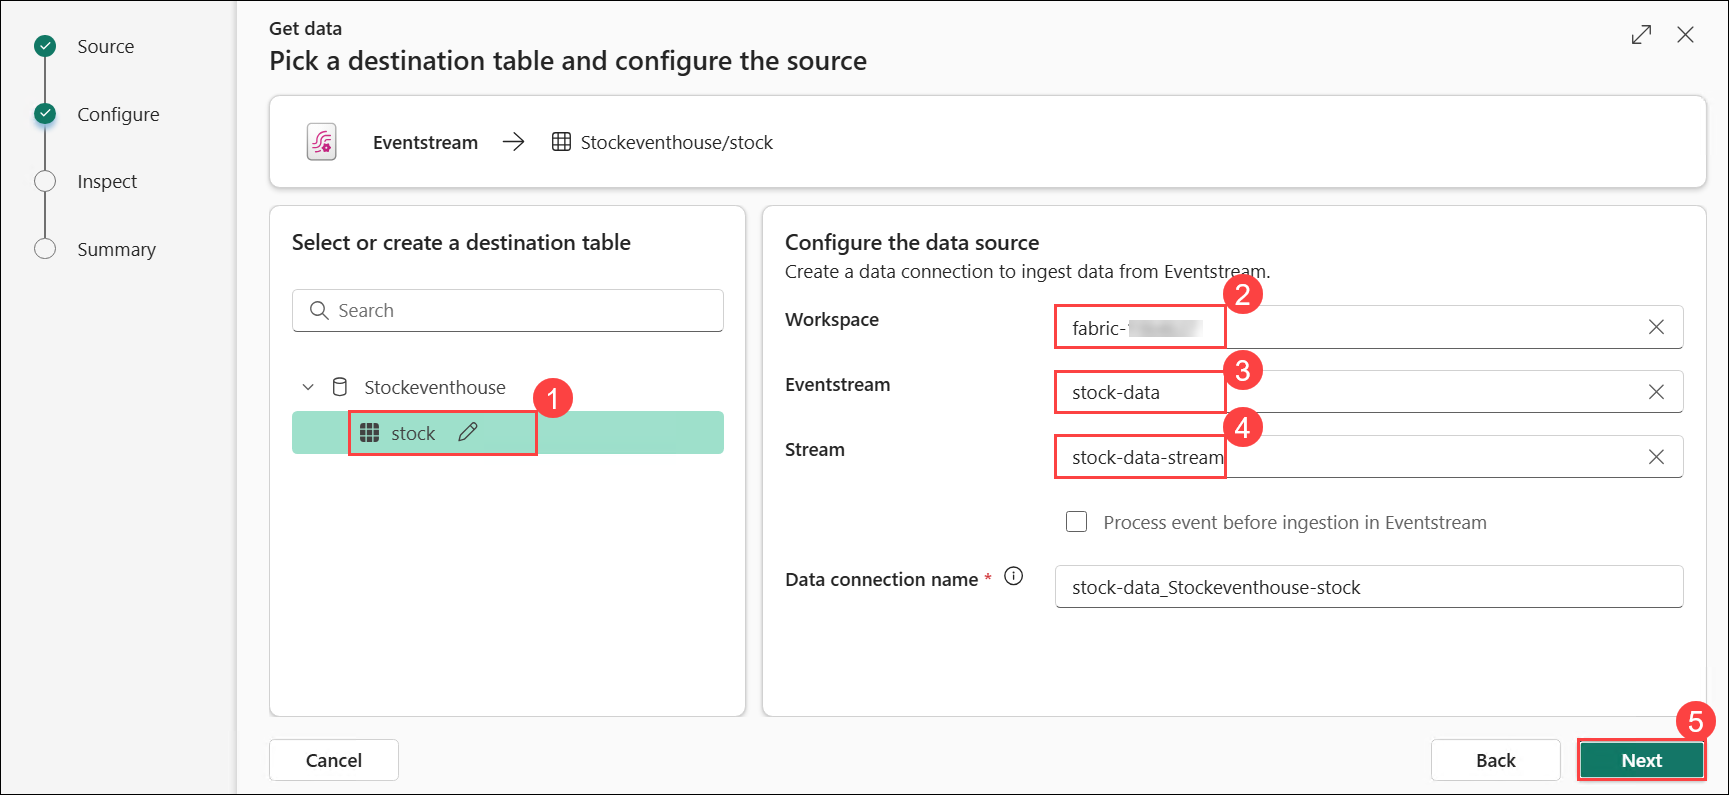
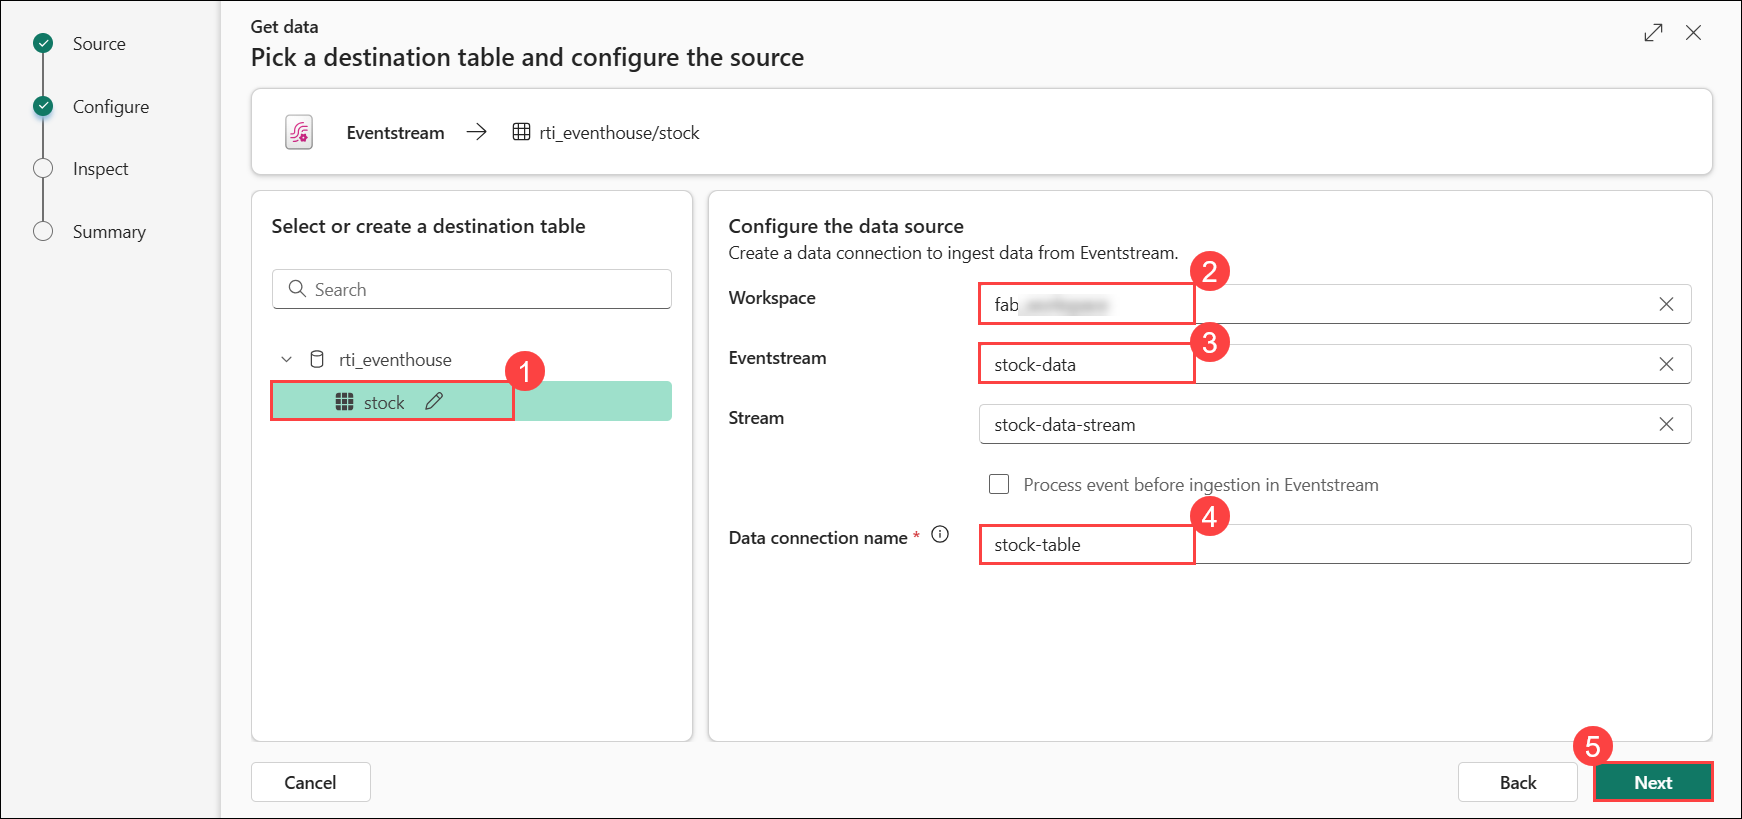
update

diff --git a/Instructions/Labs/07-real-time-Intelligence.md b/Instructions/Labs/07-real-time-Intelligence.md
@@ -29,13 +29,13 @@ In this task, you will create an eventstream in Microsoft Fabric using the Real-
 
 1. In the real-time hub, in the **Connect to** section, select **Data sources (1)**.
 
-1. Find the **Stock market** sample data source and select **Connect (2)**. Then in the **Connect** wizard, name the source **`stock` (3)** and edit the default eventstream name to change it to **`stock-data` (4)**. The default stream associated with this data will automatically be named **`stock-data-stream` (5)**:
+1. Find the **Stock market** sample data source and select **Connect (2)**. Then in the **Connect** wizard, name the source **`stock` (3)** and edit the default eventstream name to change it to **`stock-data` (4)**. The default stream associated with this data will automatically be named **`stock-data-stream` (5)** and click **Next (6)**.
 
     ![Screenshot of a new eventstream.](./Images/md62.png)
 
     ![Screenshot of a new eventstream.](./Images/md63.png)
 
-1. Select **Next (6)** and select **Connect (7)** and wait for the source and eventstream to be created, then select **Open eventstream (8)**. The eventstream will show the **stock** source and the **stock-data-stream** on the design canvas:
+1. Select **Connect (7)** and wait for the source and eventstream to be created, then select **Open eventstream (8)**. The eventstream will show the **stock** source and the **stock-data-stream** on the design canvas:
 
     ![Screenshot of a new eventstream.](./Images/md64.png)
 
@@ -67,11 +67,11 @@ In this task, you will create an eventhouse in Microsoft Fabric to store the ing
 
 1. In the main page of your KQL database, select **Get data (1)**.
 
-1. For the data source, select **Eventstream (2)** > **Existing eventstream (3)**.
+1. For the data source, select **Eventstream (2)** > **Existing Eventstream (3)**.
 
    ![Screenshot of a new eventhouse](./Images/mod3-p3t2p6.png)
 
-1. In the **Select or create a destination table** pane, create a new table named **   **. Then in the **Configure the data source** pane, select your **workspace (2)** and the **stock-data (3)** eventstream and name the connection `stock-table` (4) and then click on **Next (5)**.
+1. In the **Select or create a destination table** pane, create a new table named **`stock` (1)**. Then in the **Configure the data source** pane, select your **workspace (2)** and the **stock-data (3)** eventstream and name the connection `stock-table` (4) and then click on **Next (5)**.
 
    ![Screenshot of configuration for loading a table from an eventstream.](./Images/mod3-p3t2p7.png)
 

diff --git a/Instructions/Labs/03-delta-lake.md b/Instructions/Labs/03-delta-lake.md
@@ -39,7 +39,7 @@ In this task, you will create a new lakehouse within your Microsoft Fabric works
 
    ![Screen picture of products.csv uploaded to the lakehouse.](Images/dpp66.png)
 
-1. Click on folder icon **(1)**, navigate to `C:\LabFiles\Files` **(2)** then select **products.csv (3)** and then **Open (4)**.
+1. Click on folder icon **(1)**, navigate to `C:\LabFiles\files` **(2)** then select **products.csv (3)** and then **Open (4)**.
 
    ![Screen picture of products.csv uploaded to the lakehouse.](Images/dpp67.png)
 
@@ -57,7 +57,7 @@ In this task, you will create a new lakehouse within your Microsoft Fabric works
 
 In this task, you'll begin working with a notebook in Microsoft Fabric to explore Delta Lake functionality using Apache Spark. You’ll first add explanatory markdown text to describe your notebook, then use PySpark to define a schema and read CSV data into a DataFrame. 
 
-1. We will create a **New notebook**. For that click on **Open notebook (1)** and then **New Notebook (2)**.
+1. We will create a **New notebook**. For that click on **Open notebook (1)** and then **New notebook (2)**.
 
    ![Screen picture of products.csv uploaded to the lakehouse.](./Images/notebook-p4.png)
 
@@ -145,7 +145,7 @@ The data files are created in the **Tables** folder.
 
 In this task, you'll create an external Delta table, where the data files are stored in a specified location (such as a folder in your lakehouse), while the table schema is maintained by Microsoft Fabric.
 
-1. In the Lakehouse explorer pane, in the **… (1)** menu for the **Files** folder, select **Copy ABFS path (2)**. The ABFS path is the fully qualified path to the lakehouse Files folder.
+1. In the Lakehouse explorer pane, in the **ellipsis (...) (1)** menu for the **Files** folder, select **Copy ABFS path (2)**. The ABFS path is the fully qualified path to the lakehouse Files folder.
 
    ![Screenshot of uploaded files in a lakehouse.](./Images/md2-29.png)
 

diff --git a/Instructions/Labs/13-real-time-dashboards.md b/Instructions/Labs/13-real-time-dashboards.md
@@ -125,7 +125,7 @@ Your dashboard contains two visuals that are based on similar queries. To avoid 
 
 In this task, you will design a base query to retrieve and structure the data that will populate the visualizations on your dashboard.
 
-1. On the dashboard toolbar, select **Base queries**. Then select **+Add**.
+1. On the dashboard toolbar, select **Base queries (1)**. Then select **+ Add (2)**.
 
     ![](./Images/mod3-p6t2p1.png)
 
@@ -170,7 +170,7 @@ In this task, you will add a parameter to your base query to enable dynamic filt
 
 1. On the dashboard toolbar, on the **Manage (1)** tab, select **Parameters (2)**.
 
-    ![](./Images/mod3-p3t3p1.png)
+    ![](./Images/mod3-p6t3p1.png)
 
 1. Note any existing parameters that have been automatically created (for example a *Time range* parameter). Then **Delete** them.
 

diff --git a/Instructions/Labs/01-lakehouse.md b/Instructions/Labs/01-lakehouse.md
@@ -57,7 +57,7 @@ In this task, you will upload a data file into your newly created lakehouse. Mic
 
    ![Screenshot of uploaded files in a lakehouse.](./Images/md2-4.png) 
 
-1. Click on the **Folder (1)** icon, navigate to `C:\LabFiles\Files` **(2)**, select **sales.csv (3)** and then click **Open (4)**.   
+1. Click on the **Folder (1)** icon, navigate to `C:\LabFiles\files` **(2)**, select **sales.csv (3)** and then click **Open (4)**.   
 
    ![Screenshot of uploaded files in a lakehouse.](./Images/dpp58.png) 
 
@@ -185,7 +185,6 @@ In this lab, you have completed the following tasks:
 - Loaded file data into a table
 - Used SQL to query tables
 - Created a visual query
-- Created a report
 
 
 ### Now, click on Next >> from the lower right corner to move on to the next lab.

diff --git a/Instructions/Labs/DP700-Gettingstarted/M05-Gettingstarted.md b/Instructions/Labs/DP700-Gettingstarted/M05-Gettingstarted.md
@@ -60,16 +60,14 @@ Once you're ready to dive in, your virtual machine and **Guide** will be right a
  
 ![Access Your VM and Lab Guide](../Images/dpm1.png)
 
+### Virtual Machine & Lab Guide
+ 
+Your virtual machine is your workhorse throughout the workshop. The lab guide is your roadmap to success.
 
 ## Lab Guide Zoom In/Zoom Out
  
 To adjust the zoom level for the environment page, click the **A↕: 100%** icon located next to the timer in the lab environment.
-
-![](../Images/dpg2.png)
-
-### Virtual Machine & Lab Guide
- 
-Your virtual machine is your workhorse throughout the workshop. The lab guide is your roadmap to success.
+![](../Images/zoomintab.png)
 
 ## Exploring Your Lab Resources
  

diff --git a/Instructions/Labs/03b-medallion-lakehouse.md b/Instructions/Labs/03b-medallion-lakehouse.md
@@ -38,7 +38,7 @@ In this task, you’ll create a new lakehouse named Sales within your workspace 
 
    ![Screenshot of the workspace settings page in Fabric.](./Images/dpp82.png)
 
-1. Click on the folder icon **(1)**, navigate to `C:\LabFiles\Files\orders` **(2)**, select **2019.csv, 2020.csv, and 2021.csv (3)** files and then **Open (4)**.
+1. Click on the folder icon **(1)**, navigate to `C:\LabFiles\files\orders` **(2)**, select **2019.csv, 2020.csv, and 2021.csv (3)** files and then **Open (4)**.
 
    ![Screenshot of the workspace settings page in Fabric.](./Images/dpp83.png)
 

diff --git a/Instructions/Labs/DP700-Gettingstarted/M03-Gettingstarted.md b/Instructions/Labs/DP700-Gettingstarted/M03-Gettingstarted.md
@@ -80,7 +80,7 @@ To get a better understanding of your lab resources and credentials, navigate to
  
 To adjust the zoom level for the environment page, click the **A↕: 100%** icon located next to the timer in the lab environment.
 
-![](../Images/module303.png)
+![](../Images/zoomintab.png)
 
 ## Utilizing the Split Window Feature
  

diff --git a/Instructions/Labs/DP700-Gettingstarted/M04-Gettingstarted.md b/Instructions/Labs/DP700-Gettingstarted/M04-Gettingstarted.md
@@ -84,7 +84,7 @@ To get a better understanding of your lab resources and credentials, navigate to
  
 To adjust the zoom level for the environment page, click the **A↕: 100%** icon located next to the timer in the lab environment.
 
-![](../Images/module303.png)
+![](../Images/zoomintab.png)
 
 ## Utilizing the Split Window Feature
  

diff --git a/Instructions/Labs/DP700-Gettingstarted/M01-Gettingstarted.md b/Instructions/Labs/DP700-Gettingstarted/M01-Gettingstarted.md
@@ -68,7 +68,7 @@ To get a better understanding of your lab resources and credentials, navigate to
  
 To adjust the zoom level for the environment page, click the **A↕: 100%** icon located next to the timer in the lab environment.
 
-![](../Images2/zoom.png)
+![](../Images/zoomintab.png)
 
 ## Utilizing the Split Window Feature
  

diff --git a/Instructions/Labs/Create-workspace-01.md b/Instructions/Labs/Create-workspace-01.md
@@ -1,4 +1,4 @@
-# Lab: prerequisite: Create a Fabric workspace
+# Lab: Prerequisite: Create a Fabric workspace
 
 ### Estimated Duration: 15 Minutes
 
